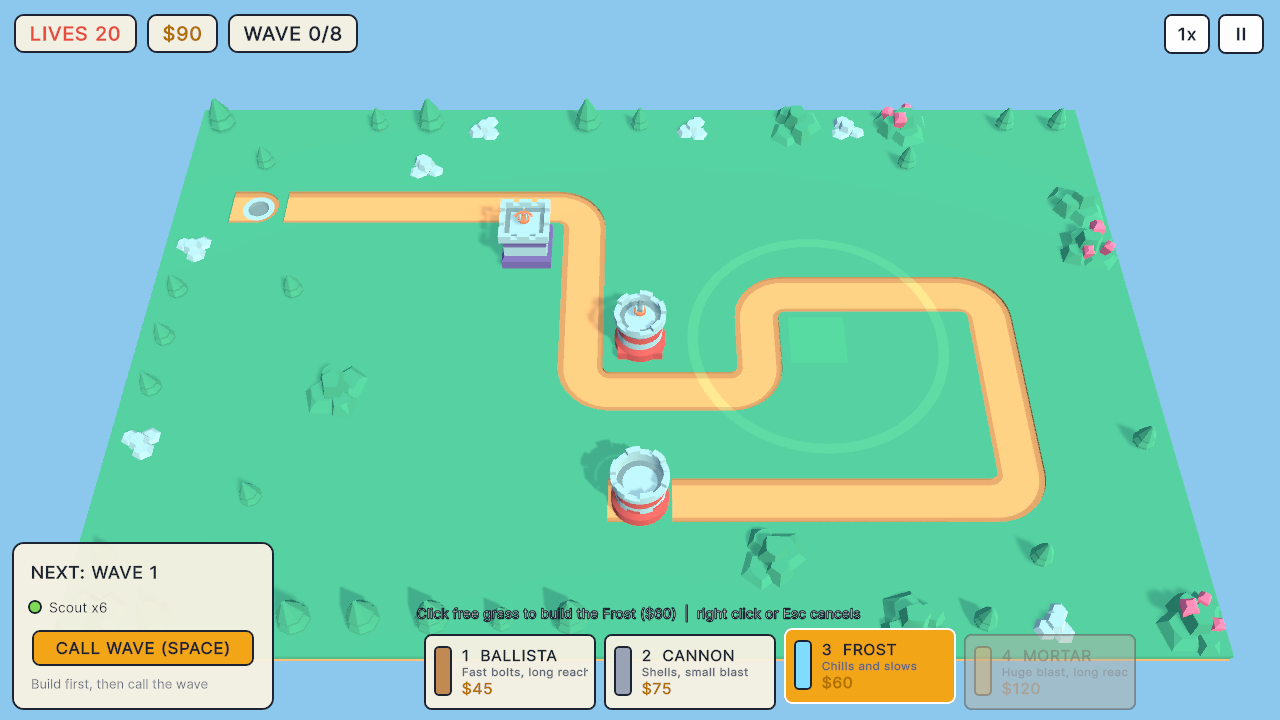
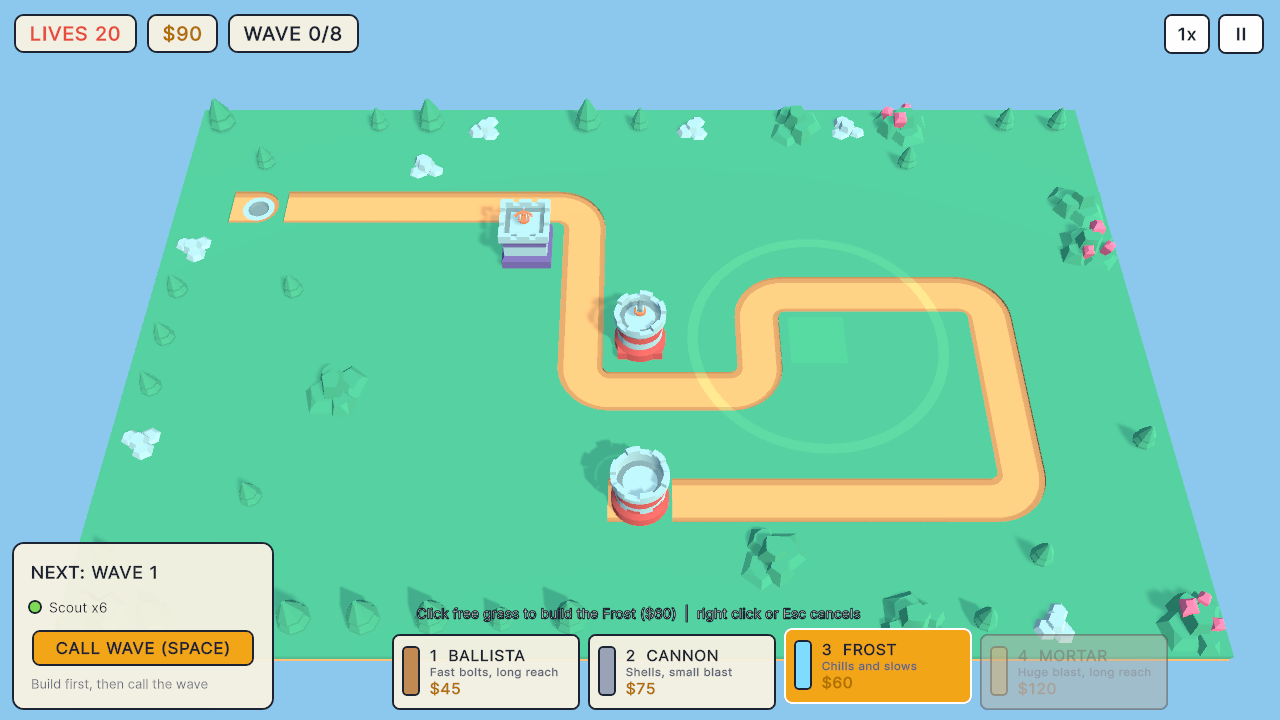
fix(ui): fit tower card roles and document menu keys
Widen the build cards so the role line is no longer clipped at the 1280x720 reference size, retake the two affected screenshots, and list the restart and level-select keys of the pause and result screens.

Changed region(s): [[0.2812, 0.8556, 0.5938, 1.0], [0.7188, 0.8556, 0.9375, 1.0]]

diff --git a/README.md b/README.md
@@ -53,6 +53,8 @@ or, without a player,
 | Game speed 1x, 2x, 3x | Speed button | F | Select |
 | Pause (volume settings inside) | II button | Esc or P | Start |
 | Mute | Pause menu | M | — |
+| Restart the level (pause or result screen) | Menu button | R | Y |
+| Back to level select (pause or result screen) | Menu button | Q | X |
 
 ## How it plays
 
